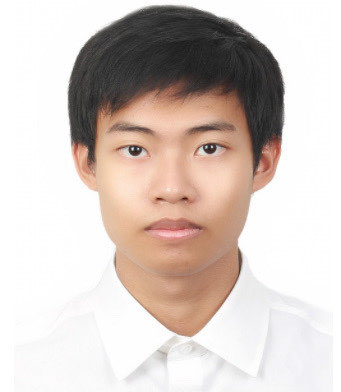
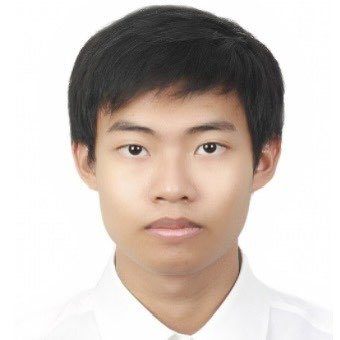
💄 update image

Changed region(s): [[0.1765, 0.0294, 0.8529, 1.0], [0.1765, 0.0, 0.5882, 0.2647], [0.6176, 0.0882, 0.6471, 0.1176]]

diff --git a/src/routes/(auth)/docs/introduction/+page.svelte b/src/routes/(auth)/docs/introduction/+page.svelte
@@ -38,7 +38,7 @@
 	<section class="flex flex-col gap-6">
 		<h1 class="text-3xl font-bold">🔨Developers Team</h1>
 		<div class="grid md:grid-cols-3 grid-row-3 place-content-center gap-4">
-			<div class="bg-card border p-2 flex flex-col text-center items-center gap-2 w-1/2">
+			<div class="bg-card border p-2 flex flex-col text-center items-center gap-2 w-1/2 rounded-lg">
 				<Avatar.Root class="size-28">
 					<Avatar.Image src="/imgs/devTeams/Panwit-300x300.jpg" alt="@shadcn" />
 					<Avatar.Fallback>CN</Avatar.Fallback>
@@ -46,7 +46,7 @@
 				<p class="font-semibold">Assoc. Prof. Dr Panwit Tuwanut</p>
 				<p class="text-muted-foreground text-sm">Project Adviser</p>
 			</div>
-			<div class="bg-card border p-2 flex flex-col text-center items-center gap-2 w-1/2">
+			<div class="bg-card border p-2 flex flex-col text-center items-center gap-2 w-1/2 rounded-lg">
 				<Avatar.Root class="size-28">
 					<Avatar.Image src="/imgs/devTeams/Tong.jpg" alt="@shadcn" />
 					<Avatar.Fallback>CN</Avatar.Fallback>
@@ -54,9 +54,9 @@
 				<p class="font-semibold">Mr. Khemmathiti Wangsaptawee</p>
 				<p class="text-muted-foreground text-sm">Software Developer</p>
 			</div>
-			<div class="bg-card border p-2 flex flex-col text-center items-center gap-2 w-1/2">
+			<div class="bg-card border p-2 flex flex-col text-center items-center gap-2 w-1/2 rounded-lg">
 				<Avatar.Root class="size-28">
-					<Avatar.Image src="/imgs/devTeams/Gun.jpg" alt="@shadcn" />
+					<Avatar.Image class="bg-cover" src="/imgs/devTeams/Gun.jpg" alt="@shadcn" />
 					<Avatar.Fallback>CN</Avatar.Fallback>
 				</Avatar.Root>
 				<p class="font-semibold">Mr. Thavith Javisooth</p>
@@ -67,7 +67,7 @@
 	<Button class="self-end" variant="outline" onclick={() => {
 		goto('/docs/applications')
 	}}>
-		<p>WorkSpaces</p>
+		<p>Applications</p>
 		<ChevronRight />
 	</Button>
 </div>
